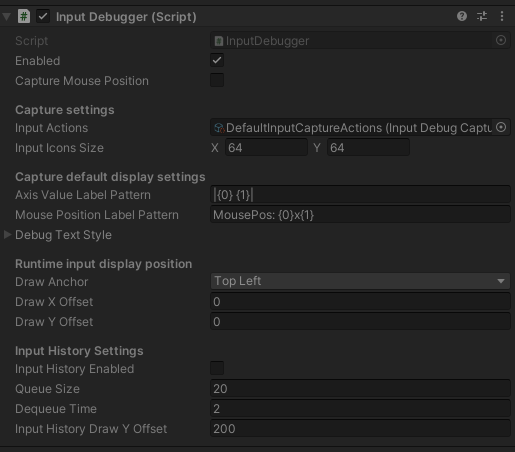
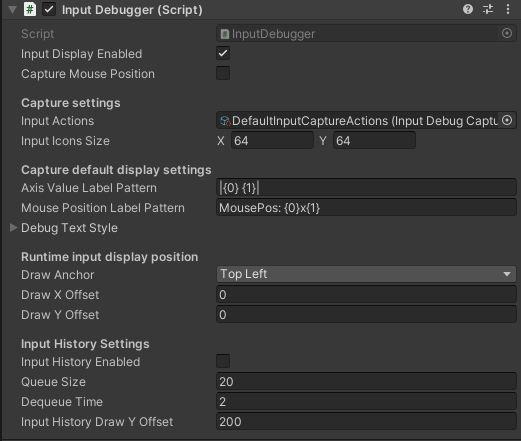
Exposing methods for altering capture collections.
* Adding proper enable/disable hooks
* Updating images in the docs

diff --git a/Assets/RuntimeInputDebugger/Code/InputDebugger/InputDebugger.cs b/Assets/RuntimeInputDebugger/Code/InputDebugger/InputDebugger.cs
@@ -11,10 +11,10 @@ namespace Code.InputDebugger
 	public class InputDebugger : MonoBehaviour
 	{
 		/// <summary>
-		/// Starts/stops the input debugger
+		/// Starts/stops the input display debugger
 		/// </summary>
-		[Tooltip("Starts/stops the input debugger")]
-		public bool Enabled = false;
+		[Tooltip("Starts/stops the input display debugger")]
+		public bool InputDisplayEnabled = false;
 
 		/// <summary>
 		/// Should the input debugger capture the mouse position
@@ -106,42 +106,31 @@ namespace Code.InputDebugger
 
 		private void Start()
 		{
-			UpdateCapturedInputActions();
+			//Prepares the debugger to capture input from the assigned input set
+			UpdateCapturedInputActionsFromInputSet();
 		}
 
 		private void Update()
 		{
-			if (!Enabled) {
-				return;
-			}
+			if (InputDisplayEnabled) {
+				
+				//Try to capture the input actions and fill the collections
+				FillInputCaptureInformation();
 
-			//Prepare capture collections
-			_displayKeyActions.Clear();
-			_displayAxisActions.Clear();
-			_justPressedKeys.Clear();
-
-			//If something was pressed, try to capture the input actions
-			if (Input.anyKey) {
-				foreach (KeyInputAction keyAction in _captureKeys) {
-					if (Input.GetKey(keyAction.Key)) {
-						_displayKeyActions.Add(keyAction);
+				//Capture axes that have negative/positive values
+				foreach (AxisInputAction axisAction in _captureAxes) {
+					float axisValue = Input.GetAxis(axisAction.AxisName);
+					if (axisValue != 0) {
+						_displayAxisActions.Add(axisAction, axisValue);
 					}
-
-					if (Input.GetKeyDown(keyAction.Key)) {
-						_justPressedKeys.Add(keyAction);
-					}
-				}
-			}
-
-			//Capture axes that have negative/positive values
-			foreach (AxisInputAction axisAction in _captureAxes) {
-				float axisValue = Input.GetAxis(axisAction.AxisName);
-				if (axisValue != 0) {
-					_displayAxisActions.Add(axisAction, axisValue);
 				}
 			}
 
 			if (InputHistoryEnabled) {
+
+				if (!InputDisplayEnabled) {
+					FillInputCaptureInformation();
+				}
 
 				//If something was JUST pressed, add it to the history
 				if (_justPressedKeys.Any()) {
@@ -167,6 +156,29 @@ namespace Code.InputDebugger
 			}
 		}
 
+		/// <summary>
+		/// Update all capture keys from the InputActions set
+		/// </summary>
+		private void FillInputCaptureInformation()
+		{
+			//Prepare capture collections
+			_displayKeyActions.Clear();
+			_displayAxisActions.Clear();
+			_justPressedKeys.Clear();
+
+			if (Input.anyKey) {
+				foreach (KeyInputAction keyAction in _captureKeys) {
+					if (Input.GetKey(keyAction.Key)) {
+						_displayKeyActions.Add(keyAction);
+					}
+
+					if (Input.GetKeyDown(keyAction.Key)) {
+						_justPressedKeys.Add(keyAction);
+					}
+				}
+			}
+		}
+
 		private void OnGUI()
 		{
 			if (DrawAnchor != _drawAnchorInternal) {
@@ -186,57 +198,61 @@ namespace Code.InputDebugger
 				GUILayout.FlexibleSpace();
 			}
 
-			#region Draw InputKeyActions
-			GUILayout.BeginHorizontal();
+			if (InputDisplayEnabled) {
 
-			if (_drawAnchorInternal == DebugStyleAnchorType.BottomRight
-			|| _drawAnchorInternal == DebugStyleAnchorType.TopRight
-			|| _drawAnchorInternal == DebugStyleAnchorType.MiddleRight
-			|| _drawAnchorInternal == DebugStyleAnchorType.Middle
-			|| _drawAnchorInternal == DebugStyleAnchorType.TopCenter
-			|| _drawAnchorInternal == DebugStyleAnchorType.BottomCenter) {
-				GUILayout.FlexibleSpace();
+				#region Draw InputKeyActions
+				GUILayout.BeginHorizontal();
+
+				if (_drawAnchorInternal == DebugStyleAnchorType.BottomRight
+				|| _drawAnchorInternal == DebugStyleAnchorType.TopRight
+				|| _drawAnchorInternal == DebugStyleAnchorType.MiddleRight
+				|| _drawAnchorInternal == DebugStyleAnchorType.Middle
+				|| _drawAnchorInternal == DebugStyleAnchorType.TopCenter
+				|| _drawAnchorInternal == DebugStyleAnchorType.BottomCenter) {
+					GUILayout.FlexibleSpace();
+				}
+
+				DrawInputKeyActions(_displayKeyActions);
+
+				if (_drawAnchorInternal == DebugStyleAnchorType.BottomLeft
+				|| _drawAnchorInternal == DebugStyleAnchorType.TopLeft
+				|| _drawAnchorInternal == DebugStyleAnchorType.MiddleLeft
+				|| _drawAnchorInternal == DebugStyleAnchorType.Middle
+				|| _drawAnchorInternal == DebugStyleAnchorType.TopCenter
+				|| _drawAnchorInternal == DebugStyleAnchorType.BottomCenter) {
+					GUILayout.FlexibleSpace();
+				}
+
+				GUILayout.EndHorizontal();
+				#endregion
+
+				#region Draw InputAxisActions
+				GUILayout.BeginHorizontal();
+
+				if (_drawAnchorInternal == DebugStyleAnchorType.BottomRight
+				|| _drawAnchorInternal == DebugStyleAnchorType.TopRight
+				|| _drawAnchorInternal == DebugStyleAnchorType.MiddleRight
+				|| _drawAnchorInternal == DebugStyleAnchorType.Middle
+				|| _drawAnchorInternal == DebugStyleAnchorType.TopCenter
+				|| _drawAnchorInternal == DebugStyleAnchorType.BottomCenter) {
+					GUILayout.FlexibleSpace();
+				}
+
+				DrawInputAxisActions(_displayAxisActions);
+
+				if (_drawAnchorInternal == DebugStyleAnchorType.BottomLeft
+				|| _drawAnchorInternal == DebugStyleAnchorType.TopLeft
+				|| _drawAnchorInternal == DebugStyleAnchorType.MiddleLeft
+				|| _drawAnchorInternal == DebugStyleAnchorType.Middle
+				|| _drawAnchorInternal == DebugStyleAnchorType.TopCenter
+				|| _drawAnchorInternal == DebugStyleAnchorType.BottomCenter) {
+					GUILayout.FlexibleSpace();
+				}
+
+				GUILayout.EndHorizontal();
+				#endregion
+
 			}
-
-			DrawInputKeyActions(_displayKeyActions);
-
-			if (_drawAnchorInternal == DebugStyleAnchorType.BottomLeft
-			|| _drawAnchorInternal == DebugStyleAnchorType.TopLeft
-			|| _drawAnchorInternal == DebugStyleAnchorType.MiddleLeft
-			|| _drawAnchorInternal == DebugStyleAnchorType.Middle
-			|| _drawAnchorInternal == DebugStyleAnchorType.TopCenter
-			|| _drawAnchorInternal == DebugStyleAnchorType.BottomCenter) {
-				GUILayout.FlexibleSpace();
-			}
-
-			GUILayout.EndHorizontal();
-			#endregion
-
-			#region Draw InputAxisActions
-			GUILayout.BeginHorizontal();
-
-			if (_drawAnchorInternal == DebugStyleAnchorType.BottomRight
-			|| _drawAnchorInternal == DebugStyleAnchorType.TopRight
-			|| _drawAnchorInternal == DebugStyleAnchorType.MiddleRight
-			|| _drawAnchorInternal == DebugStyleAnchorType.Middle
-			|| _drawAnchorInternal == DebugStyleAnchorType.TopCenter
-			|| _drawAnchorInternal == DebugStyleAnchorType.BottomCenter) {
-				GUILayout.FlexibleSpace();
-			}
-
-			DrawInputAxisActions(_displayAxisActions);
-
-			if (_drawAnchorInternal == DebugStyleAnchorType.BottomLeft
-			|| _drawAnchorInternal == DebugStyleAnchorType.TopLeft
-			|| _drawAnchorInternal == DebugStyleAnchorType.MiddleLeft
-			|| _drawAnchorInternal == DebugStyleAnchorType.Middle
-			|| _drawAnchorInternal == DebugStyleAnchorType.TopCenter
-			|| _drawAnchorInternal == DebugStyleAnchorType.BottomCenter) {
-				GUILayout.FlexibleSpace();
-			}
-
-			GUILayout.EndHorizontal();
-			#endregion
 
 			#region Draw Capture Mouse Position
 			if (CaptureMousePosition) {
@@ -297,9 +313,9 @@ namespace Code.InputDebugger
 		}
 
 		/// <summary>
-		/// Force update on the captured input actions and axes
+		/// Updates captured input actions and axes from the assigned input set
 		/// </summary>
-		public void UpdateCapturedInputActions()
+		public void UpdateCapturedInputActionsFromInputSet()
 		{
 			if (InputActions == null) {
 				Debug.LogWarning("InputDebugger cannot work with empty capture set. Either assign input capture set or create a new one and then assign it. " +
@@ -307,11 +323,84 @@ namespace Code.InputDebugger
 				return;
 			}
 
-			_captureKeys.Clear();
-			_captureKeys.AddRange(InputActions.Keys);
+			FillCaptureInputKeyActions(InputActions.Keys);
+			FillCaptureInputAxisActions(InputActions.Axes);
+		}
 
+		/// <summary>
+		/// Add input key action to the input capture list
+		/// </summary>
+		/// <param name="keyAction">Input key action to be added</param>
+		public void AddCaptureInputKeyAction(KeyInputAction keyAction)
+		{
+			if (!_captureKeys.Contains(keyAction)) {
+				_captureKeys.Add(keyAction);
+			}
+		}
+
+		/// <summary>
+		/// Add input axis action to the input capture list
+		/// </summary>
+		/// <param name="axisAction">Axis action to be added</param>
+		public void AddCaptureInputAxisAction(AxisInputAction axisAction)
+		{
+			if (!_captureAxes.Contains(axisAction)) {
+				_captureAxes.Add(axisAction);
+			}
+		}
+
+		/// <summary>
+		/// Removes input key action from the capture list
+		/// </summary>
+		/// <param name="keyAction">Input key action to be removed</param>
+		public void RemoveCaptureInputKeyAction(KeyInputAction keyAction)
+		{
+			_captureKeys.Remove(keyAction);
+		}
+
+		/// <summary>
+		/// Removes input axis action from the capture list
+		/// </summary>
+		/// <param name="axisAction">Axis action to be removed</param>
+		public void RemoveCaptureInputAxisAction(AxisInputAction axisAction)
+		{
+			_captureAxes.Remove(axisAction);
+		}
+
+		/// <summary>
+		/// Clears and fills the capture input keys with the given list of input actions
+		/// </summary>
+		/// <param name="keyActions"></param>
+		public void FillCaptureInputKeyActions(List<KeyInputAction> keyActions)
+		{
+			_captureKeys.Clear();
+			_captureKeys.AddRange(keyActions);
+		}
+
+		/// <summary>
+		/// Clears and fills the capture input axes with the given list of input axes
+		/// </summary>
+		/// <param name="axisActions"></param>
+		public void FillCaptureInputAxisActions(List<AxisInputAction> axisActions)
+		{
 			_captureAxes.Clear();
-			_captureAxes.AddRange(InputActions.Axes);
+			_captureAxes.AddRange(axisActions);
+		}
+
+		/// <summary>
+		/// Enables InputDebugger component based on Behaviour.enabled field
+		/// </summary>
+		public void EnableInputDebugger()
+		{
+			enabled = true;
+		}
+
+		/// <summary>
+		/// Disables InputDebugger component based on Behaviour.enabled field
+		/// </summary>
+		public void DisableInputDebugger()
+		{
+			enabled = false;
 		}
 
 		private void SetAnchor(DebugStyleAnchorType newAnchor)
@@ -328,7 +417,12 @@ namespace Code.InputDebugger
 			if (inputActions.Any()) {
 				foreach (KeyInputAction keyAction in inputActions) {
 					if (keyAction.Icon == null) {
-						GUILayout.Label(keyAction.Name.ToString(), DebugTextStyle);
+						if (string.IsNullOrEmpty(keyAction.Name)) {
+							GUILayout.Label(keyAction.Key.ToString(), DebugTextStyle);
+						}
+						else {
+							GUILayout.Label(keyAction.Name.ToString(), DebugTextStyle);
+						}
 					}
 					else {
 						GUIStyle protoStyle = new GUIStyle();
@@ -386,7 +480,7 @@ namespace Code.InputDebugger
 		[ContextMenu("Update Input Actions")]
 		private void ContextUpdateCapturedInputActions()
 		{
-			UpdateCapturedInputActions();
+			UpdateCapturedInputActionsFromInputSet();
 		}
 	}
 }
